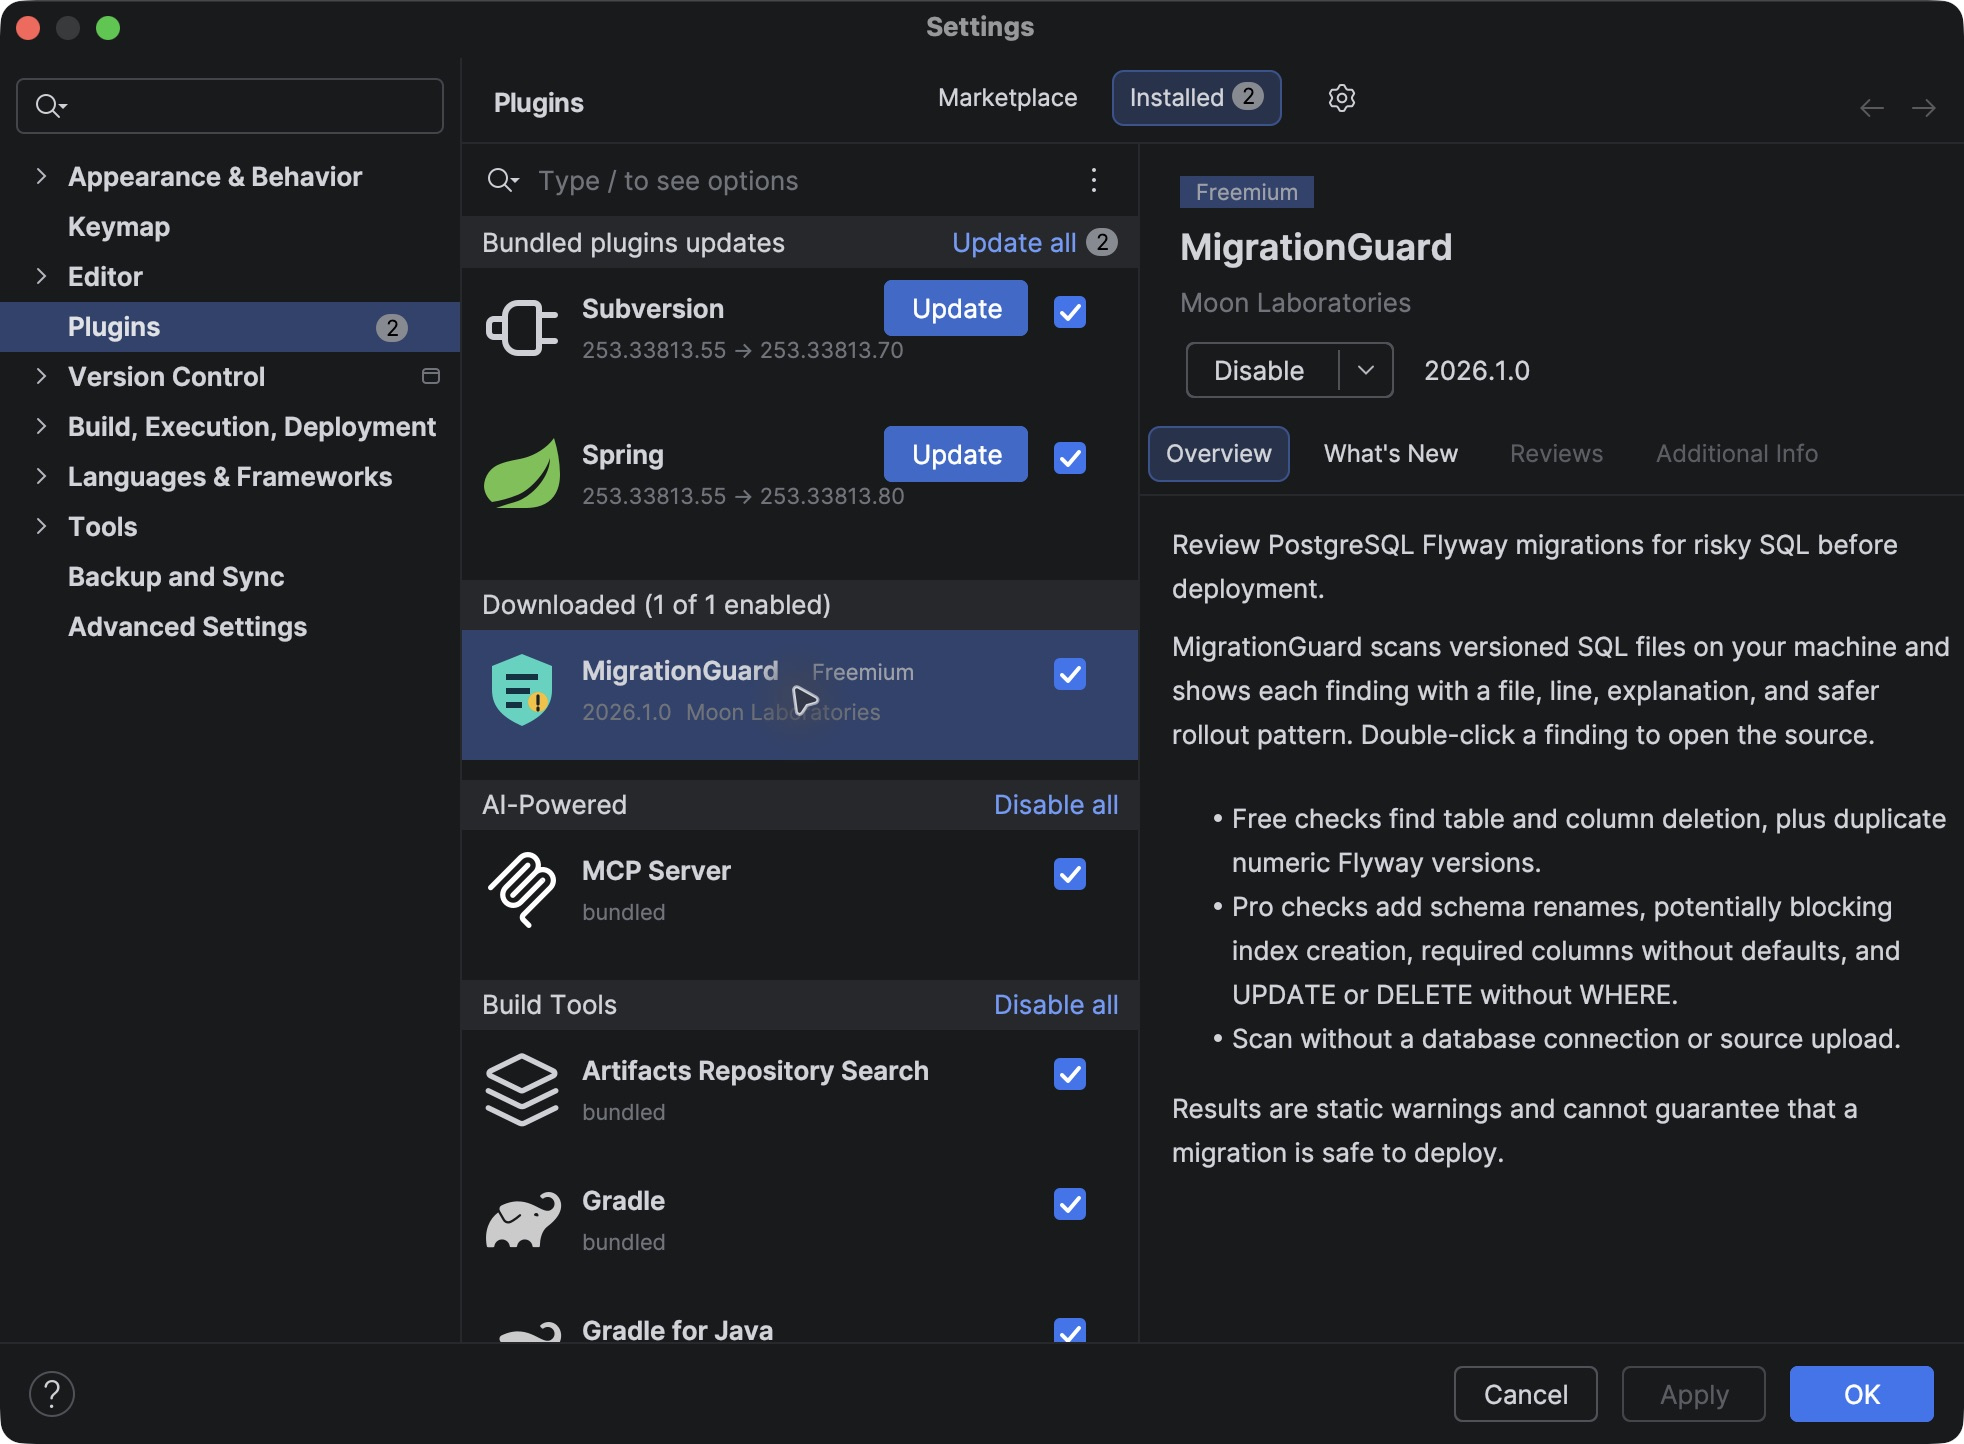
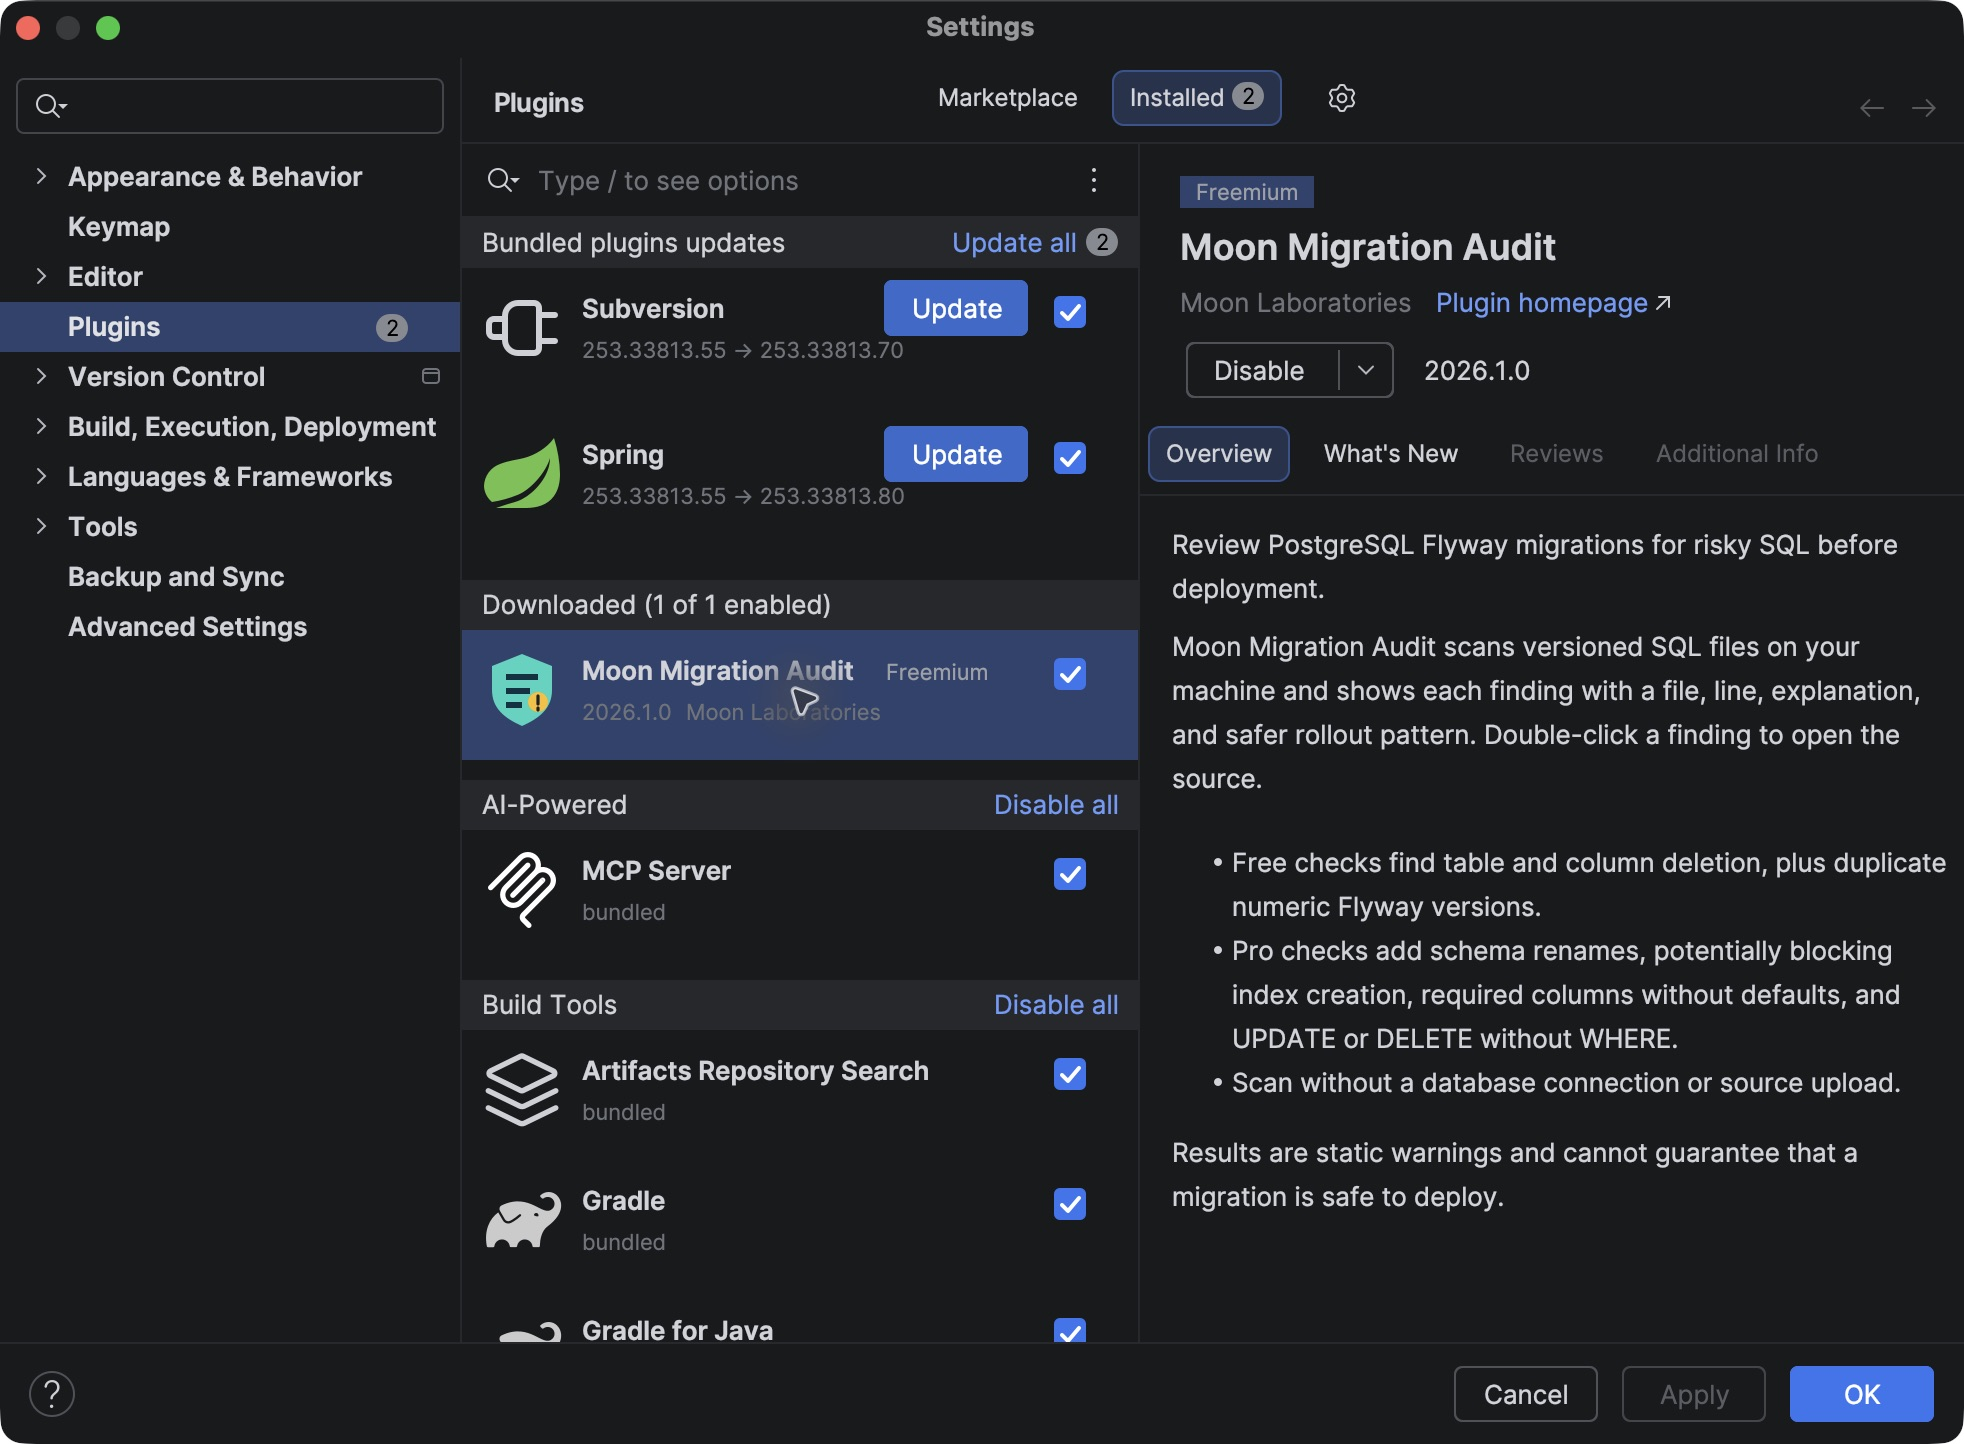
Publish customer guide for Moon Migration Audit

Changed region(s): [[0.5901, 0.4363, 0.9939, 0.8414], [0.6212, 0.1558, 0.8386, 0.2181], [0.3106, 0.4363, 0.4659, 0.4986]]

diff --git a/migrationguard/USER_GUIDE.md b/migrationguard/USER_GUIDE.md
@@ -1,63 +1,66 @@
-# MigrationGuard User Guide
+# Moon Migration Audit User Guide
 
-**For:** IntelliJ IDEA users who install MigrationGuard from JetBrains Marketplace
+**For:** People who install Moon Migration Audit in IntelliJ IDEA, including people with a Pro subscription.
 
-**Last update:** 2026-10-07
+**Updated:** 2026-10-07
 
-MigrationGuard checks PostgreSQL Flyway SQL files in your open project. It shows changes that need review before deployment. You can use the Free checks without a license. A trial or Pro subscription adds four checks.
+Moon Migration Audit checks PostgreSQL Flyway SQL migrations in your open project. It reports changes that need review before deployment. The Free checks work without a license. A valid trial or Pro subscription adds four checks.
 
-**Availability:** The Marketplace listing is under preparation. The install and purchase steps below apply when JetBrains approves the listing.
+**Availability:** JetBrains is reviewing the Marketplace listing. You can follow the installation steps after JetBrains publishes it.
 
-## Install MigrationGuard
+## Install the plugin
 
 1. Open IntelliJ IDEA 2025.3 or a later compatible version.
-2. Open **Settings** on Windows or Linux, or **Preferences** on macOS.
+2. Open **Settings** on Windows or Linux. Open **Preferences** on macOS.
 3. Select **Plugins > Marketplace**.
-4. Search for **MigrationGuard** by **Moon Laboratories**.
+4. Search for **Moon Migration Audit** by **Moon Laboratories**.
 5. Select **Install**.
-6. Restart the IDE if it asks you to restart.
+6. Restart IntelliJ IDEA if it asks you to restart.
 
-You can use the Free checks as soon as installation is complete. To confirm the installation, open **Plugins > Installed** and check that MigrationGuard is enabled.
+To confirm the installation, select **Plugins > Installed**. Make sure that **Moon Migration Audit** is enabled.
 
-![MigrationGuard enabled in the Installed plugins list.](images/installed.jpg)
+![Moon Migration Audit enabled in the Installed plugins list.](images/installed.jpg)
 
-*Figure 1. MigrationGuard appears in the Installed plugins list.*
+*Figure 1. Moon Migration Audit is installed and enabled.*
 
-For more help with installation, see the [IntelliJ IDEA plugin guide](https://www.jetbrains.com/help/idea/managing-plugins.html).
+For help with installation, see the [IntelliJ IDEA plugin guide](https://www.jetbrains.com/help/idea/managing-plugins.html).
 
 ## Scan your migrations
 
-1. Open the project that contains your Flyway SQL files.
-2. Select **View > Tool Windows > MigrationGuard**.
+1. Open your project in IntelliJ IDEA.
+2. Select **View > Tool Windows > Moon Migration Audit**.
 3. Select **Scan project**.
 4. Wait for the scan to finish.
-5. Read the finding count above the list.
+5. Read the finding count and the findings in the list.
 
-MigrationGuard scans versioned files with names such as `V2__add_accounts.sql`. It does not scan repeatable migrations with names such as `R__refresh_view.sql`.
+The plugin scans versioned Flyway SQL files. For example, it scans `V2__add_accounts.sql`. It does not scan repeatable files such as `R__refresh_view.sql`.
 
-![MigrationGuard scan results in IntelliJ IDEA.](images/scan-results.jpg)
+![Moon Migration Audit showing a Free scan result.](images/scan-results.jpg)
 
-*Figure 2. Example results when all checks are active. Your results depend on your SQL files and license.*
+*Figure 2. The Free scan reports a column deletion in an example project. Your results depend on your SQL files.*
 
 ## Review a finding
 
 1. Select a finding in the list.
 2. Read **Why risky** and **Safer pattern** below the list.
-3. Check the SQL and your deployment plan.
-4. Double-click the finding to open its SQL file at the reported location.
+3. Review the SQL and your deployment plan.
+4. Double-click the finding to open the SQL file at the reported line.
 
-A data-source message in the SQL editor comes from the IDE. MigrationGuard does not need a database connection.
+The plugin does not change your SQL files. It does not need a database connection. If the SQL editor asks you to configure a data source, you can still run the scan.
 
-## Use a trial or Pro subscription
+## Activate a trial or a purchased subscription
 
-1. Select **Unlock Pro** in the MigrationGuard tool window.
-2. Follow the JetBrains license window to start a trial or activate a subscription. You can also buy Pro from the MigrationGuard Marketplace page when sales are available.
-3. Sign in with the JetBrains Account that has the trial or subscription.
-4. Select **Scan project** again. The scan now includes Pro checks.
+1. Select **Unlock Pro** in the Moon Migration Audit tool window.
+2. In the JetBrains license window, sign in with your JetBrains Account.
+3. If you bought Pro, use the account that you used for the purchase. Select the Moon Migration Audit license.
+4. If you want a trial, start it when JetBrains offers it in the license window.
+5. Return to the tool window and select **Scan project** again.
 
-If you bought Pro and it does not activate, open **Help > Register** in the IDE. Sign in with the account used for the purchase, refresh the license list, and activate the MigrationGuard license. Then scan again. See the [JetBrains license guide](https://www.jetbrains.com/help/idea/register.html) for account and activation steps.
+When sales are available, you can buy Pro on the [Moon Migration Audit Marketplace page](https://plugins.jetbrains.com/plugin/34848-moon-migration-audit). JetBrains manages the purchase and subscription.
 
-If a trial or subscription ends, the Free checks remain available. JetBrains Marketplace manages trial and subscription billing.
+If Pro does not activate, open **Help > Register** in IntelliJ IDEA. Sign in with the account that has the license. Refresh the license list, activate Moon Migration Audit, and scan again. See the [JetBrains license guide](https://www.jetbrains.com/help/idea/register.html) for more help.
+
+If your trial or subscription ends, you can continue to use the Free checks.
 
 ## Know which checks you have
 
@@ -71,27 +74,27 @@ If a trial or subscription ends, the Free checks remain available. JetBrains Mar
 | `MG006` | Pro | A new `NOT NULL` column has no default. |
 | `MG007` | Pro | `UPDATE` or `DELETE` has no `WHERE` clause. |
 
-Each finding shows a severity, rule ID, file, line, reason, and safer pattern. A **Critical** or **Warning** label identifies a risk. It does not mean that the migration will fail.
+Each finding gives you a severity, rule ID, file, line, reason, and safer pattern. A **Critical** or **Warning** label identifies a risk. It does not mean that the migration will fail.
 
 ## Scan again after a change
 
-1. Review the finding and the SQL file.
-2. Check whether the migration has already run in another environment.
+1. Review the finding and its SQL file.
+2. Check whether the migration already ran in another environment.
 3. Change and save the file only if your deployment plan permits it.
 4. Select **Scan project** again.
 
-MigrationGuard does not change your SQL files. Do not edit an applied migration without a release plan.
+Do not change an applied migration without a release plan.
 
-## If you see no findings
+## If the scan finds nothing
 
-1. Check that versioned Flyway SQL files are inside the open project.
-2. Check the file names. A valid example is `V2__add_accounts.sql`.
+1. Make sure that your versioned Flyway SQL files are in the open project.
+2. Check the file names. For example, use `V2__add_accounts.sql`.
 3. Select **Scan project** again.
 
-No findings does not prove that a migration is safe. MigrationGuard checks selected SQL patterns and cannot test your database or deployment.
+A scan with no findings does not prove that a migration is safe. The plugin checks selected SQL patterns. It does not test your database or deployment.
 
 ## Privacy and help
 
-MigrationGuard reads SQL files on your computer. It does not connect to a database or upload your SQL.
+The plugin reads SQL files on your computer. It does not connect to a database or upload your SQL.
 
 For help with a scan, license, or subscription, see [Support](SUPPORT.md). Read the [Privacy Policy](PRIVACY.md) and [License](LICENSE) for more information.

diff --git a/migrationguard/PRIVACY.md b/migrationguard/PRIVACY.md
@@ -1,18 +1,18 @@
-# MigrationGuard Privacy Policy
+# Moon Migration Audit Privacy Policy
 
 Last updated: 2026-10-07
 
 This Privacy Policy explains how Moon Laboratories ("we", "us", "our") handles data
-when you use the MigrationGuard plugin ("Plugin").
+when you use the Moon Migration Audit plugin ("Plugin").
 
 ## 1. Scope
 
-This policy applies to the MigrationGuard JetBrains plugin and related support
+This policy applies to the Moon Migration Audit JetBrains plugin and related support
 interactions.
 
 ## 2. Data Processing Overview
 
-MigrationGuard is designed to process project source files and configuration
+Moon Migration Audit is designed to process project source files and configuration
 primarily within your local IDE environment.
 
 - We do not operate a backend that ingests your source code by default.
@@ -20,7 +20,7 @@ primarily within your local IDE environment.
 
 ## 3. Data Processed by the Plugin
 
-MigrationGuard reads versioned Flyway SQL files in the project you scan. It
+Moon Migration Audit reads versioned Flyway SQL files in the project you scan. It
 processes file paths and SQL text in the IDE to identify potential migration
 risks and show findings. It does not ask for database credentials or create a
 Moon Laboratories account.
@@ -30,7 +30,7 @@ Moon Laboratories account.
 The current scanner does not send project files, SQL text, or findings over the
 network. JetBrains may handle plugin download, updates, licensing, and billing
 under its own terms and privacy policy. The IDE may use JetBrains platform
-services independently of MigrationGuard.
+services independently of Moon Migration Audit.
 
 We do not sell personal data.
 
@@ -77,7 +77,7 @@ transmission is completely secure.
 
 ## 9. Children's Privacy
 
-MigrationGuard is intended for professional developers and is not directed to
+Moon Migration Audit is intended for professional developers and is not directed to
 children.
 
 ## 10. International Use
@@ -89,7 +89,7 @@ providers operate.
 ## 11. Changes to This Policy
 
 We may update this Privacy Policy from time to time. The latest version will be
-published with the Plugin materials or repository documentation.
+published with the Plugin materials or on the product page.
 
 ## 12. Contact
 

diff --git a/migrationguard/SUPPORT.md b/migrationguard/SUPPORT.md
@@ -1,9 +1,9 @@
-# MigrationGuard Support Policy
+# Moon Migration Audit Support Policy
 
 Last updated: 2026-10-07
 
 This Support Policy describes how Moon Laboratories provides support for the
-MigrationGuard plugin.
+Moon Migration Audit plugin.
 
 ## 1. Support Channels
 
@@ -62,7 +62,7 @@ These are targets, not guaranteed service levels.
 To speed resolution, include:
 
 - JetBrains IDE name and version;
-- MigrationGuard version;
+- Moon Migration Audit version;
 - operating system and version;
 - exact steps to reproduce;
 - expected behavior vs actual behavior;
